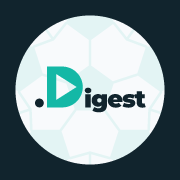
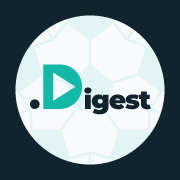
アイコンの文字を1.2倍に

diff --git a/site/index.html b/site/index.html
@@ -9,8 +9,8 @@
 <meta name="apple-mobile-web-app-title" content=".Digest">
 <meta name="theme-color" content="#0f1720">
 <link rel="manifest" href="manifest.webmanifest">
-<link rel="apple-touch-icon" href="icon-180.png?v=3">
-<link rel="icon" href="icon-192.png?v=3">
+<link rel="apple-touch-icon" href="icon-180.png?v=4">
+<link rel="icon" href="icon-192.png?v=4">
 <!-- 見出し「.Digest」用の書体(Montserrat。使う文字だけ読み込む) -->
 <link rel="preconnect" href="https://fonts.googleapis.com">
 <link rel="preconnect" href="https://fonts.gstatic.com" crossorigin>
